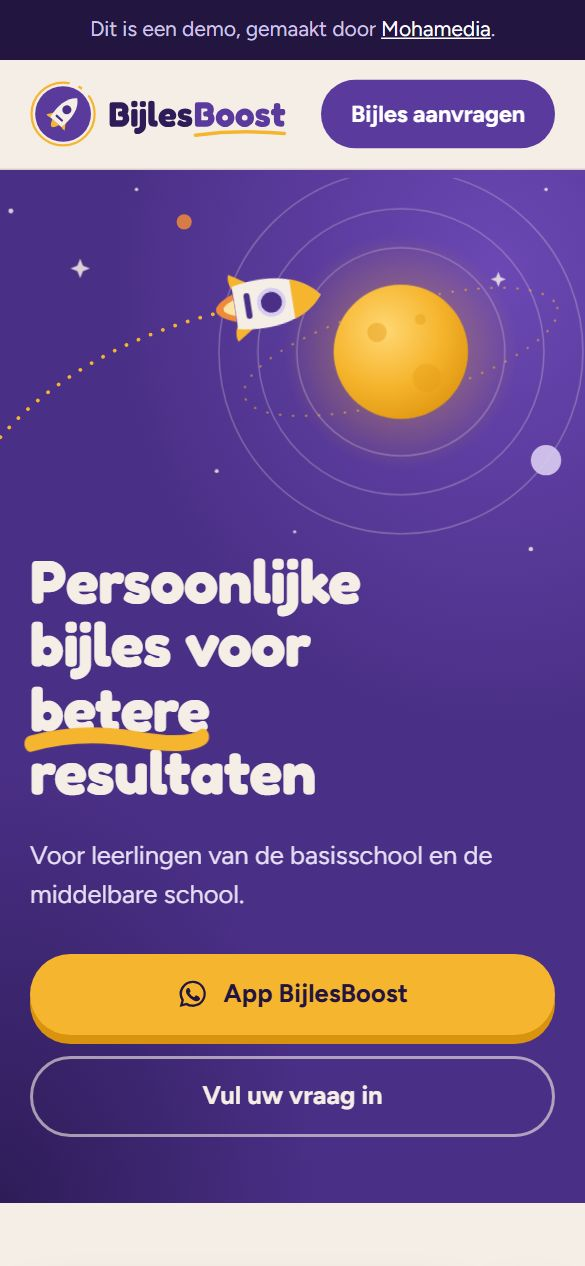
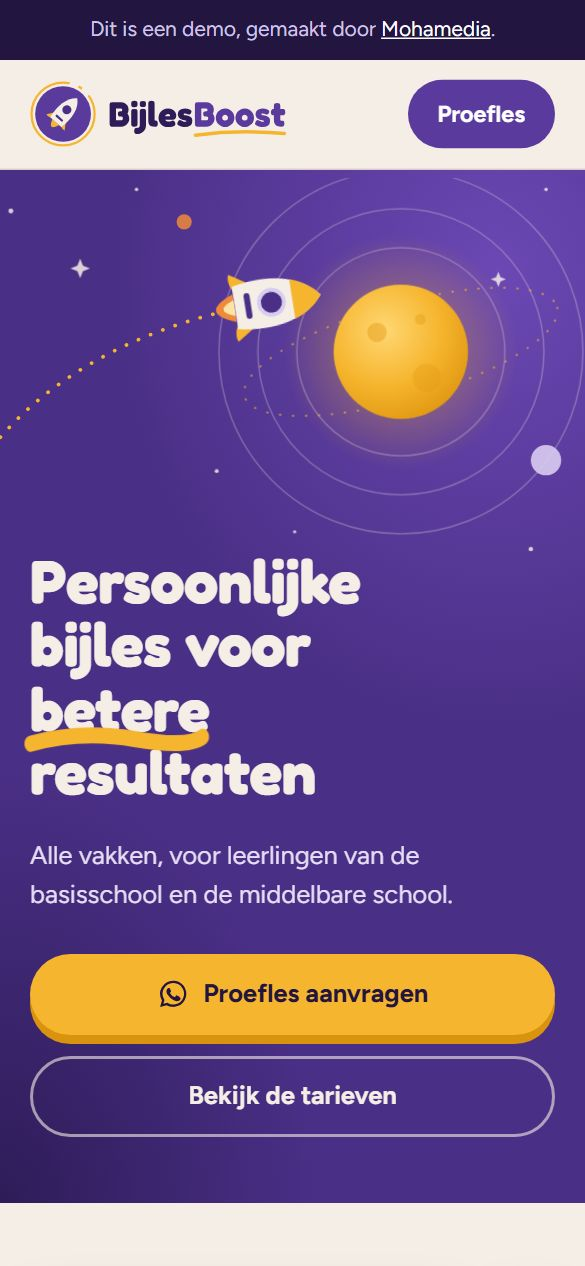
Demo bijlesboost

diff --git a/bijlesboost/index.html b/bijlesboost/index.html
@@ -18,8 +18,8 @@
 <meta charset="utf-8">
 <meta name="viewport" content="width=device-width, initial-scale=1">
 <meta name="robots" content="noindex, nofollow">
-<title>BijlesBoost – persoonlijke bijles voor basisschool en middelbare school</title>
-<meta name="description" content="BijlesBoost: persoonlijke bijles voor leerlingen van de basisschool en de middelbare school. 1-op-1 of in een kleine groep, op een eigen rustige leslocatie en op flexibele tijden. Vraag bijles aan via WhatsApp, telefoon of e-mail.">
+<title>BijlesBoost – persoonlijke bijles in Rotterdam, basisschool en middelbare school</title>
+<meta name="description" content="BijlesBoost: persoonlijke bijles voor leerlingen van de basisschool en de middelbare school. Alle vakken, 1-op-1 of in een kleine groep, op een eigen rustige leslocatie aan de Putselaan 178 in Rotterdam. Vraag een proefles aan via WhatsApp of e-mail.">
 <meta name="theme-color" content="#4A2F86">
 <link rel="icon" href="favicon.svg" type="image/svg+xml">
 <link rel="preload" href="fonts/fredoka.woff2" as="font" type="font/woff2" crossorigin>
@@ -34,6 +34,7 @@
 }
 *{box-sizing:border-box}
 [hidden]{display:none!important}
+@media (max-width:420px){.kop .xl{display:none}}
 html{scroll-behavior:smooth;-webkit-text-size-adjust:100%}
 body{margin:0;font:400 17px/1.6 var(--tekst);color:var(--inkt);background:var(--creme);overflow-x:hidden;-webkit-font-smoothing:antialiased}
 img,svg{max-width:100%}
@@ -141,13 +142,20 @@ body.pitch .demo .pitchknop{display:inline-flex;margin-left:10px;min-height:44px
 /* AANBOD */
 .aanbod{background:var(--lila);overflow:hidden}
 .aanbod::before{content:"";position:absolute;left:-180px;top:-180px;width:420px;height:420px;border-radius:50%;background:repeating-radial-gradient(circle,transparent 0 22px,rgba(91,58,158,.09) 22px 24px);pointer-events:none}
-.badges{display:grid;grid-template-columns:repeat(3,1fr);gap:10px;position:relative;align-content:start}
+.badges{display:grid;grid-template-columns:repeat(2,1fr);gap:10px;position:relative;align-content:start}
 .badge{background:var(--wit);border-radius:28px;padding:22px 16px 20px;text-align:center;display:flex;flex-direction:column;align-items:center;gap:12px;box-shadow:0 1px 0 rgba(46,28,88,.06),0 14px 30px -18px rgba(46,28,88,.35)}
 .badge .em{width:min(108px,100%);aspect-ratio:1;height:auto}
 .badge h3{font-size:clamp(14.5px,3.9vw,21px);line-height:1.2;overflow-wrap:anywhere}
 .badge{padding:18px 8px 16px}
 .prijsregel{margin:22px 0 0;font:600 clamp(19px,3.6vw,22px)/1.3 var(--kop);color:var(--paars-dd)}
 
+/* REACTIES (verborgen tot er echte teksten zijn) */
+.reacties{background:var(--wit)}
+.reactielijst{display:grid;gap:14px}
+.reactie{margin:0;background:var(--creme);border-radius:var(--r);padding:22px 20px}
+.reactie blockquote{margin:0 0 10px;font:500 18px/1.45 var(--kop);color:var(--paars-dd)}
+.reactie figcaption{font-size:14.5px;color:var(--grijs)}
+@media (min-width:900px){.reactielijst{grid-template-columns:repeat(3,1fr)}}
 /* WELKOM */
 .welkom{background:var(--paars-dd);color:var(--creme);overflow:hidden}
 .welkom .wrap{display:grid;gap:30px;align-items:center}
@@ -168,6 +176,7 @@ body.pitch .demo .pitchknop{display:inline-flex;margin-left:10px;min-height:44px
 .prijs h3{font-size:clamp(26px,6vw,34px);margin:12px 0 4px}
 .prijs .bedrag{font:700 clamp(64px,16vw,96px)/1 var(--kop);letter-spacing:-.02em;margin:10px 0 12px;display:flex;align-items:flex-start;gap:4px}
 .prijs .bedrag small{font-size:.42em;margin-top:.16em}
+.prijs .bedrag .eh{font:600 clamp(17px,4vw,20px)/1 var(--tekst);align-self:flex-end;margin:0 0 .5em 8px;opacity:.85;letter-spacing:0}
 .prijs p{margin:0;font-size:16.5px;opacity:.92;max-width:34ch}
 .prijsnoot{margin-top:24px;display:flex;flex-wrap:wrap;align-items:center;gap:14px 20px;background:var(--wit);border:1px dashed var(--lavendel);border-radius:var(--r);padding:20px 22px}
 .prijsnoot p{margin:0;font:600 clamp(19px,3.6vw,22px)/1.3 var(--kop);color:var(--paars-dd);flex:1 1 220px}
@@ -238,6 +247,7 @@ textarea.veld{min-height:92px;resize:vertical}
 .k-wa .rond{background:#25D366;color:#fff}
 .k-bel .rond{background:var(--geel);color:var(--nacht)}
 .k-mail .rond{background:var(--paars);color:#fff}
+.k-plek .rond{background:var(--geel);color:var(--nacht)}
 .locatie{margin-top:18px;display:flex;gap:14px;align-items:flex-start;background:transparent;border:1.5px dashed var(--lavendel);border-radius:24px;padding:18px}
 .locatie svg{flex:none;width:44px;height:44px}
 .locatie p{margin:0;color:var(--grijs)}
@@ -291,7 +301,7 @@ footer .klein{font-size:13.5px;opacity:.8;margin:0}
 @media (min-width:560px){
   .hero .cta,.slot .cta{flex-direction:row;flex-wrap:wrap}
   .slot .cta{max-width:none;justify-content:center}
-  .badges{gap:14px}
+  .badges{gap:14px;grid-template-columns:repeat(4,1fr)}
   .prijzen{grid-template-columns:1fr 1fr}
   .kanalen{grid-template-columns:repeat(3,1fr)}
   .kanaal{flex-direction:column;align-items:flex-start;padding:22px}
@@ -305,7 +315,7 @@ footer .klein{font-size:13.5px;opacity:.8;margin:0}
   .hero .tekst{order:1}
   .scene{order:2;width:118%;margin:0 -12% 0 -6%}
   .hero h1{margin-top:0}
-  .waarom .raster{grid-template-columns:1.05fr 1fr;align-items:start;gap:28px}
+  .waarom .raster{grid-template-columns:1fr;align-items:start;gap:28px}
   .citaat{padding:40px 36px;position:sticky;top:24px}
   .welkom .wrap{grid-template-columns:1fr 1fr;gap:48px}
   .aanmeld{grid-template-columns:1.35fr 1fr;align-items:start;gap:28px}
@@ -341,7 +351,7 @@ footer .klein{font-size:13.5px;opacity:.8;margin:0}
       <a href="#waarom">Waarom BijlesBoost</a><a href="#tarieven">Tarieven</a><a href="#werkwijze">Werkwijze</a><a href="#contact">Contact</a>
     </nav>
     <div class="rechts">
-      <a class="btn paars klein" href="#afspraak">Bijles aanvragen</a>
+      <a class="btn paars klein" href="#afspraak">Proefles<span class="xl">&nbsp;aanvragen</span></a>
     </div>
   </div>
 </header>
@@ -404,10 +414,10 @@ footer .klein{font-size:13.5px;opacity:.8;margin:0}
     </svg>
     <div class="tekst">
       <h1>Persoonlijke bijles voor <span class="ond">betere<svg viewBox="0 0 100 10" preserveAspectRatio="none" aria-hidden="true"><path pathLength="1" d="M2 7 Q30 1 60 5 T98 4"/></svg></span> resultaten</h1>
-      <p class="sub">Voor leerlingen van de basisschool en de middelbare school.</p>
+      <p class="sub">Alle vakken, voor leerlingen van de basisschool en de middelbare school.</p>
       <div class="cta">
-        <a class="btn geel" href="https://wa.me/31618645277?text=Hallo%20BijlesBoost%2C%20ik%20wil%20graag%20bijles%20voor%20mijn%20kind.%20Kunnen%20we%20iets%20afspreken%3F"><svg viewBox="0 0 24 24" aria-hidden="true"><path fill="currentColor" d="M12 2a10 10 0 0 0-8.6 15.1L2 22l5-1.3A10 10 0 1 0 12 2Zm0 18.2a8.2 8.2 0 0 1-4.2-1.2l-.3-.2-3 .8.8-2.9-.2-.3A8.2 8.2 0 1 1 12 20.2Zm4.5-6.1c-.2-.1-1.5-.7-1.7-.8-.2-.1-.4-.1-.6.1l-.8 1c-.1.2-.3.2-.5.1a6.7 6.7 0 0 1-3.3-2.9c-.3-.4.2-.4.7-1.3.1-.2 0-.3 0-.4l-.8-1.8c-.2-.5-.4-.4-.6-.4h-.5a1 1 0 0 0-.7.3 3 3 0 0 0-.9 2.2 5.2 5.2 0 0 0 1.1 2.7 11.8 11.8 0 0 0 4.5 4c1.7.7 2.3.8 3.2.7.5-.1 1.5-.6 1.8-1.2.2-.6.2-1.1.1-1.2l-.4-.2Z"/></svg>App BijlesBoost</a>
-        <a class="btn lijn-licht" href="#afspraak">Vul uw vraag in</a>
+        <a class="btn geel" href="https://wa.me/31618645277?text=Hallo%20BijlesBoost%2C%20ik%20wil%20graag%20een%20proefles%20aanvragen.%20Kunnen%20we%20iets%20afspreken%3F"><svg viewBox="0 0 24 24" aria-hidden="true"><path fill="currentColor" d="M12 2a10 10 0 0 0-8.6 15.1L2 22l5-1.3A10 10 0 1 0 12 2Zm0 18.2a8.2 8.2 0 0 1-4.2-1.2l-.3-.2-3 .8.8-2.9-.2-.3A8.2 8.2 0 1 1 12 20.2Zm4.5-6.1c-.2-.1-1.5-.7-1.7-.8-.2-.1-.4-.1-.6.1l-.8 1c-.1.2-.3.2-.5.1a6.7 6.7 0 0 1-3.3-2.9c-.3-.4.2-.4.7-1.3.1-.2 0-.3 0-.4l-.8-1.8c-.2-.5-.4-.4-.6-.4h-.5a1 1 0 0 0-.7.3 3 3 0 0 0-.9 2.2 5.2 5.2 0 0 0 1.1 2.7 11.8 11.8 0 0 0 4.5 4c1.7.7 2.3.8 3.2.7.5-.1 1.5-.6 1.8-1.2.2-.6.2-1.1.1-1.2l-.4-.2Z"/></svg>Proefles aanvragen</a>
+        <a class="btn lijn-licht" href="#tarieven">Bekijk de tarieven</a>
       </div>
     </div>
   </div>
@@ -436,8 +446,25 @@ footer .klein{font-size:13.5px;opacity:.8;margin:0}
           <svg class="em" viewBox="0 0 108 108" aria-hidden="true"><circle cx="54" cy="54" r="53" fill="#EEE7F8"/><circle cx="54" cy="54" r="44" fill="none" stroke="#5B3A9E" stroke-width="2" stroke-dasharray="3 6" opacity=".5"/><circle cx="54" cy="55" r="23" fill="#fff" stroke="#5B3A9E" stroke-width="4"/><path d="M54 42v13l9 6" fill="none" stroke="#2E1C58" stroke-width="4" stroke-linecap="round" stroke-linejoin="round"/><path d="M30 32a30 30 0 0 1 14-9" fill="none" stroke="#F6B52E" stroke-width="4" stroke-linecap="round"/><path d="m41 18 4 5-6 3" fill="none" stroke="#F6B52E" stroke-width="4" stroke-linecap="round" stroke-linejoin="round"/></svg>
           <h3>Flexibele tijden</h3>
         </div>
+        <div class="badge">
+          <svg class="em" viewBox="0 0 108 108" aria-hidden="true"><circle cx="54" cy="54" r="53" fill="#2E1C58"/><circle cx="54" cy="54" r="44" fill="none" stroke="#D8CCF0" stroke-width="2" stroke-dasharray="3 6" opacity=".6"/><rect x="30" y="64" width="48" height="11" rx="3" fill="#F6B52E"/><rect x="34" y="52" width="42" height="11" rx="3" fill="#D8CCF0"/><rect x="28" y="40" width="46" height="11" rx="3" fill="#F5EEE6"/><path d="M36 40v11M70 52v11M40 64v11" stroke="#2E1C58" stroke-width="2" opacity=".35"/><path d="M50 27 62 22l12 5-12 5Z" fill="#F6B52E"/><path d="M72 28v7" stroke="#F6B52E" stroke-width="2.4" stroke-linecap="round"/></svg>
+          <h3>Alle vakken</h3>
+        </div>
       </div>
     </div>
+  </div>
+</section>
+
+<!-- Reacties van ouders: vullen met echte ouderreacties van Nizar (letterlijk, voornaam, met toestemming; bron in het dossier).
+     Pas als er echte teksten zijn het attribuut hidden weghalen. Per reactie:
+     <figure class="reactie"><blockquote>"…letterlijke tekst…"</blockquote><figcaption>Voornaam, ouder van een leerling</figcaption></figure> -->
+<section class="sectie reacties" id="reacties" hidden>
+  <div class="wrap">
+    <div class="kopje">
+      <span class="label">Reacties van ouders</span>
+      <h2>Wat ouders zeggen</h2>
+    </div>
+    <div class="reactielijst"></div>
   </div>
 </section>
 
@@ -450,46 +477,54 @@ footer .klein{font-size:13.5px;opacity:.8;margin:0}
     <div class="prijzen">
       <div class="prijs een">
         <div class="soort">Persoonlijk</div>
-        <h3>1-op-1 bijles</h3>
-        <div class="bedrag"><small>€</small>25</div>
-        <p>Alleen uw kind en de docent.</p>
+        <h3>Privéles (1-op-1)</h3>
+        <div class="bedrag"><small>€</small>25<span class="eh">per uur</span></div>
+        <p>Eén leerling en de docent.</p>
       </div>
       <div class="prijs groep">
         <div class="soort">Kleinschalig</div>
         <h3>Kleine groep</h3>
-        <div class="bedrag"><small>€</small>20</div>
+        <div class="bedrag"><small>€</small>20<span class="eh">per uur</span></div>
+        <p>Samen met andere leerlingen.</p>
               </div>
     </div>
-    <p class="prijsregel">Vraag naar de mogelijkheden.</p>
+    <p class="prijsregel">Een proefles is mogelijk. Vraag naar de mogelijkheden.</p>
   </div>
 </section>
 
 <section class="sectie kiezer" id="afspraak">
   <div class="wrap">
     <div class="kopje">
-      <span class="label">Bijles aanvragen</span>
-      <h2>Vertel kort over uw kind</h2>
+      <span class="label">Proefles of bijles aanvragen</span>
+      <h2>Vertel kort over de leerling</h2>
       <p>Uw bericht staat meteen klaar in WhatsApp; u hoeft alleen nog op versturen te tikken.</p>
     </div>
     <div class="aanmeld">
       <div class="kaartje">
         <fieldset class="stap">
-          <legend><span class="nr">1</span>Op welke school zit uw kind?</legend>
+          <legend><span class="nr">1</span>Wat wilt u aanvragen?</legend>
+          <div class="chips" data-groep="soort">
+            <button type="button" class="chip" data-w="proefles" aria-pressed="true">Een proefles</button>
+            <button type="button" class="chip" data-w="bijles" aria-pressed="false">Bijles</button>
+          </div>
+        </fieldset>
+        <fieldset class="stap">
+          <legend><span class="nr">2</span>Op welke school zit de leerling?</legend>
           <div class="chips" data-groep="school">
             <button type="button" class="chip" data-w="de basisschool" aria-pressed="true">Basisschool</button>
             <button type="button" class="chip" data-w="de middelbare school" aria-pressed="false">Middelbare school</button>
           </div>
         </fieldset>
         <fieldset class="stap">
-          <legend><span class="nr">2</span>Welke vorm heeft uw voorkeur?</legend>
+          <legend><span class="nr">3</span>Welke vorm heeft uw voorkeur?</legend>
           <div class="chips" data-groep="vorm">
-            <button type="button" class="chip" data-w="1-op-1 bijles" aria-pressed="true">1-op-1</button>
-            <button type="button" class="chip" data-w="bijles in een kleine groep" aria-pressed="false">Kleine groep</button>
+            <button type="button" class="chip" data-w="privéles (1-op-1)" aria-pressed="true">Privéles (1-op-1)</button>
+            <button type="button" class="chip" data-w="les in een kleine groep" aria-pressed="false">Kleine groep</button>
             <button type="button" class="chip" data-w="" aria-pressed="false">Weet ik nog niet</button>
           </div>
         </fieldset>
         <div class="stap">
-          <label class="lb" for="vraag"><span class="nr">3</span>Waar zoekt uw kind hulp bij?</label>
+          <label class="lb" for="vraag"><span class="nr">4</span>Waar zoekt de leerling hulp bij?</label>
           <div class="chips" data-groep="snel" style="margin-bottom:10px">
             <button type="button" class="chip" data-w="leren" aria-pressed="false">Leren</button>
             <button type="button" class="chip" data-w="plannen" aria-pressed="false">Plannen</button>
@@ -498,7 +533,7 @@ footer .klein{font-size:13.5px;opacity:.8;margin:0}
           <textarea class="veld" id="vraag" maxlength="300" placeholder="Bijvoorbeeld welk vak, of wat er lastig gaat"></textarea>
         </div>
         <div class="stap" style="margin-bottom:0">
-          <label class="lb" for="naam"><span class="nr">4</span>Uw naam</label>
+          <label class="lb" for="naam"><span class="nr">5</span>Uw naam</label>
           <input class="veld" id="naam" type="text" maxlength="60" autocomplete="name" placeholder="Naam van de ouder of verzorger">
           <p class="hint">Wat u invult, blijft op uw eigen toestel. Pas als u op versturen tikt, gaat het bericht naar BijlesBoost.</p>
         </div>
@@ -507,7 +542,7 @@ footer .klein{font-size:13.5px;opacity:.8;margin:0}
         <h3><img src="favicon.svg" width="34" height="34" alt="">Uw bericht aan BijlesBoost</h3>
         <div class="bubbel" id="bubbel"></div>
         <div class="knoppen">
-          <a class="btn geel" id="waKnop" href="https://wa.me/31618645277?text=Hallo%20BijlesBoost%2C%20ik%20wil%20graag%20bijles%20voor%20mijn%20kind.%20Kunnen%20we%20iets%20afspreken%3F"><svg viewBox="0 0 24 24" aria-hidden="true"><path fill="currentColor" d="M12 2a10 10 0 0 0-8.6 15.1L2 22l5-1.3A10 10 0 1 0 12 2Zm0 18.2a8.2 8.2 0 0 1-4.2-1.2l-.3-.2-3 .8.8-2.9-.2-.3A8.2 8.2 0 1 1 12 20.2Zm4.5-6.1c-.2-.1-1.5-.7-1.7-.8-.2-.1-.4-.1-.6.1l-.8 1c-.1.2-.3.2-.5.1a6.7 6.7 0 0 1-3.3-2.9c-.3-.4.2-.4.7-1.3.1-.2 0-.3 0-.4l-.8-1.8c-.2-.5-.4-.4-.6-.4h-.5a1 1 0 0 0-.7.3 3 3 0 0 0-.9 2.2 5.2 5.2 0 0 0 1.1 2.7 11.8 11.8 0 0 0 4.5 4c1.7.7 2.3.8 3.2.7.5-.1 1.5-.6 1.8-1.2.2-.6.2-1.1.1-1.2l-.4-.2Z"/></svg>Verstuur via WhatsApp</a>
+          <a class="btn geel" id="waKnop" href="https://wa.me/31618645277?text=Hallo%20BijlesBoost%2C%20ik%20wil%20graag%20een%20proefles%20aanvragen.%20Kunnen%20we%20iets%20afspreken%3F"><svg viewBox="0 0 24 24" aria-hidden="true"><path fill="currentColor" d="M12 2a10 10 0 0 0-8.6 15.1L2 22l5-1.3A10 10 0 1 0 12 2Zm0 18.2a8.2 8.2 0 0 1-4.2-1.2l-.3-.2-3 .8.8-2.9-.2-.3A8.2 8.2 0 1 1 12 20.2Zm4.5-6.1c-.2-.1-1.5-.7-1.7-.8-.2-.1-.4-.1-.6.1l-.8 1c-.1.2-.3.2-.5.1a6.7 6.7 0 0 1-3.3-2.9c-.3-.4.2-.4.7-1.3.1-.2 0-.3 0-.4l-.8-1.8c-.2-.5-.4-.4-.6-.4h-.5a1 1 0 0 0-.7.3 3 3 0 0 0-.9 2.2 5.2 5.2 0 0 0 1.1 2.7 11.8 11.8 0 0 0 4.5 4c1.7.7 2.3.8 3.2.7.5-.1 1.5-.6 1.8-1.2.2-.6.2-1.1.1-1.2l-.4-.2Z"/></svg>Verstuur via WhatsApp</a>
           <a class="btn lijn-licht" id="mailKnop" href="mailto:bijlesboost@outlook.com">Liever mailen</a>
         </div>
               </div>
@@ -522,9 +557,9 @@ footer .klein{font-size:13.5px;opacity:.8;margin:0}
       <h2>Zo gaat het</h2>
     </div>
     <ol class="stappen">
-      <li><div class="planeetje">1</div><div><h3>Contact</h3><p>U stuurt een bericht, belt of mailt.</p></div></li>
-      <li><div class="planeetje">2</div><div><h3>Afstemmen</h3><p>Samen spreekt u de vorm en de tijden af.</p></div></li>
-      <li><div class="planeetje">3</div><div><h3>Aan de slag</h3><p>Uw kind krijgt persoonlijke begeleiding.</p></div></li>
+      <li><div class="planeetje">1</div><div><h3>Aanvragen</h3><p>U stuurt een WhatsApp-bericht of een mail.</p></div></li>
+      <li><div class="planeetje">2</div><div><h3>Proefles</h3><p>De leerling volgt een proefles.</p></div></li>
+      <li><div class="planeetje">3</div><div><h3>Aan de slag</h3><p>Samen spreekt u de vorm en de tijden af.</p></div></li>
     </ol>
   </div>
 </section>
@@ -533,11 +568,15 @@ footer .klein{font-size:13.5px;opacity:.8;margin:0}
   <div class="wrap">
     <div class="kopje">
       <span class="label">Vragen</span>
-      <h2>Goed om te weten</h2>
+      <h2>Meestgestelde vragen</h2>
     </div>
     <div class="faq">
-      <details><summary>Waar is de bijles?</summary><p>Op onze eigen, rustige leslocatie. Vraag ons gerust waar die is.</p></details>
-      <details><summary>Op welke tijden kan het?</summary><p>De tijden zijn flexibel. Laat ons weten wat voor u werkt.</p></details>
+      <details><summary>Voor welke vakken kan een leerling terecht?</summary><p>Voor alle vakken, op de basisschool en op de middelbare school.</p></details>
+      <details><summary>Kan de leerling eerst een proefles volgen?</summary><p>Ja. Kies in het formulier "Een proefles" of stuur ons een WhatsApp-bericht.</p></details>
+      <details><summary>Wat is het verschil tussen privéles en een kleine groep?</summary><p>Bij privéles is de docent er voor één leerling. In een kleine groep krijgt de leerling samen met andere leerlingen les. De tarieven per uur staan hierboven.</p></details>
+      <details><summary>Waar zijn de lessen?</summary><p>Op onze eigen, rustige leslocatie aan de Putselaan 178 in Rotterdam.</p></details>
+      <details><summary>Op welke dagen en tijden kan het?</summary><p>De tijden zijn flexibel. U spreekt ze samen met ons af.</p></details>
+      <details><summary>Hoe vraag ik bijles aan?</summary><p>Via WhatsApp op 06 18 64 52 77 of per mail naar bijlesboost@outlook.com.</p></details>
     </div>
   </div>
 </section>
@@ -547,11 +586,12 @@ footer .klein{font-size:13.5px;opacity:.8;margin:0}
     <div class="kopje">
       <span class="label">Contact</span>
       <h2>Neem contact op</h2>
+      <p>Vraag een proefles of bijles aan via WhatsApp of mail.</p>
     </div>
     <div class="kanalen">
-      <a class="kanaal k-wa" href="https://wa.me/31618645277?text=Hallo%20BijlesBoost%2C%20ik%20wil%20graag%20bijles%20voor%20mijn%20kind.%20Kunnen%20we%20iets%20afspreken%3F"><span class="rond"><svg viewBox="0 0 24 24" aria-hidden="true"><path fill="currentColor" d="M12 2a10 10 0 0 0-8.6 15.1L2 22l5-1.3A10 10 0 1 0 12 2Zm0 18.2a8.2 8.2 0 0 1-4.2-1.2l-.3-.2-3 .8.8-2.9-.2-.3A8.2 8.2 0 1 1 12 20.2Zm4.5-6.1c-.2-.1-1.5-.7-1.7-.8-.2-.1-.4-.1-.6.1l-.8 1c-.1.2-.3.2-.5.1a6.7 6.7 0 0 1-3.3-2.9c-.3-.4.2-.4.7-1.3.1-.2 0-.3 0-.4l-.8-1.8c-.2-.5-.4-.4-.6-.4h-.5a1 1 0 0 0-.7.3 3 3 0 0 0-.9 2.2 5.2 5.2 0 0 0 1.1 2.7 11.8 11.8 0 0 0 4.5 4c1.7.7 2.3.8 3.2.7.5-.1 1.5-.6 1.8-1.2.2-.6.2-1.1.1-1.2l-.4-.2Z"/></svg></span><span><b>WhatsApp</b><span>06 18 64 52 77</span></span><svg class="pijl" viewBox="0 0 24 24" aria-hidden="true"><path d="M5 12h14m-6-6 6 6-6 6" fill="none" stroke="currentColor" stroke-width="2.4" stroke-linecap="round" stroke-linejoin="round"/></svg></a>
-      <a class="kanaal k-bel" href="tel:+31618645277"><span class="rond"><svg viewBox="0 0 24 24" aria-hidden="true"><path fill="currentColor" d="M6.6 10.8a15.2 15.2 0 0 0 6.6 6.6l2.2-2.2a1 1 0 0 1 1-.25 11.4 11.4 0 0 0 3.6.57 1 1 0 0 1 1 1V20a1 1 0 0 1-1 1A17 17 0 0 1 3 4a1 1 0 0 1 1-1h3.5a1 1 0 0 1 1 1c0 1.25.2 2.45.57 3.57a1 1 0 0 1-.25 1Z"/></svg></span><span><b>Bellen</b><span class="nw">06 18 64 52 77</span></span><svg class="pijl" viewBox="0 0 24 24" aria-hidden="true"><path d="M5 12h14m-6-6 6 6-6 6" fill="none" stroke="currentColor" stroke-width="2.4" stroke-linecap="round" stroke-linejoin="round"/></svg></a>
+      <a class="kanaal k-wa" href="https://wa.me/31618645277?text=Hallo%20BijlesBoost%2C%20ik%20wil%20graag%20een%20proefles%20aanvragen.%20Kunnen%20we%20iets%20afspreken%3F"><span class="rond"><svg viewBox="0 0 24 24" aria-hidden="true"><path fill="currentColor" d="M12 2a10 10 0 0 0-8.6 15.1L2 22l5-1.3A10 10 0 1 0 12 2Zm0 18.2a8.2 8.2 0 0 1-4.2-1.2l-.3-.2-3 .8.8-2.9-.2-.3A8.2 8.2 0 1 1 12 20.2Zm4.5-6.1c-.2-.1-1.5-.7-1.7-.8-.2-.1-.4-.1-.6.1l-.8 1c-.1.2-.3.2-.5.1a6.7 6.7 0 0 1-3.3-2.9c-.3-.4.2-.4.7-1.3.1-.2 0-.3 0-.4l-.8-1.8c-.2-.5-.4-.4-.6-.4h-.5a1 1 0 0 0-.7.3 3 3 0 0 0-.9 2.2 5.2 5.2 0 0 0 1.1 2.7 11.8 11.8 0 0 0 4.5 4c1.7.7 2.3.8 3.2.7.5-.1 1.5-.6 1.8-1.2.2-.6.2-1.1.1-1.2l-.4-.2Z"/></svg></span><span><b>WhatsApp</b><span>06 18 64 52 77</span></span><svg class="pijl" viewBox="0 0 24 24" aria-hidden="true"><path d="M5 12h14m-6-6 6 6-6 6" fill="none" stroke="currentColor" stroke-width="2.4" stroke-linecap="round" stroke-linejoin="round"/></svg></a>
       <a class="kanaal k-mail" href="mailto:bijlesboost@outlook.com?subject=Vraag%20over%20bijles"><span class="rond"><svg viewBox="0 0 24 24" aria-hidden="true"><path d="M3 6h18v12H3z" fill="none" stroke="currentColor" stroke-width="2"/><path d="m3.5 6.5 8.5 7 8.5-7" fill="none" stroke="currentColor" stroke-width="2" stroke-linejoin="round"/></svg></span><span><b>Mailen</b><span>bijlesboost@outlook.com</span></span><svg class="pijl" viewBox="0 0 24 24" aria-hidden="true"><path d="M5 12h14m-6-6 6 6-6 6" fill="none" stroke="currentColor" stroke-width="2.4" stroke-linecap="round" stroke-linejoin="round"/></svg></a>
+      <a class="kanaal k-plek" href="https://www.google.com/maps/search/?api=1&amp;query=Putselaan%20178%20Rotterdam" target="_blank" rel="noopener"><span class="rond"><svg viewBox="0 0 24 24" aria-hidden="true"><path fill="currentColor" d="M12 2a7 7 0 0 0-7 7c0 5.2 7 13 7 13s7-7.8 7-13a7 7 0 0 0-7-7zm0 9.5A2.5 2.5 0 1 1 12 6.5a2.5 2.5 0 0 1 0 5z"/></svg></span><span><b>Leslocatie</b><span>Putselaan 178, Rotterdam</span></span><svg class="pijl" viewBox="0 0 24 24" aria-hidden="true"><path d="M5 12h14m-6-6 6 6-6 6" fill="none" stroke="currentColor" stroke-width="2.4" stroke-linecap="round" stroke-linejoin="round"/></svg></a>
     </div>
   </div>
 </section>
@@ -572,8 +612,8 @@ footer .klein{font-size:13.5px;opacity:.8;margin:0}
 </footer>
 
 <div class="zweef" id="zweef" aria-hidden="true">
-  <a class="btn geel" href="#afspraak" tabindex="-1">Bijles aanvragen</a>
-  <a class="btn rond" href="https://wa.me/31618645277?text=Hallo%20BijlesBoost%2C%20ik%20wil%20graag%20bijles%20voor%20mijn%20kind.%20Kunnen%20we%20iets%20afspreken%3F" tabindex="-1" aria-label="WhatsApp BijlesBoost"><svg viewBox="0 0 24 24" aria-hidden="true"><path fill="currentColor" d="M12 2a10 10 0 0 0-8.6 15.1L2 22l5-1.3A10 10 0 1 0 12 2Zm0 18.2a8.2 8.2 0 0 1-4.2-1.2l-.3-.2-3 .8.8-2.9-.2-.3A8.2 8.2 0 1 1 12 20.2Zm4.5-6.1c-.2-.1-1.5-.7-1.7-.8-.2-.1-.4-.1-.6.1l-.8 1c-.1.2-.3.2-.5.1a6.7 6.7 0 0 1-3.3-2.9c-.3-.4.2-.4.7-1.3.1-.2 0-.3 0-.4l-.8-1.8c-.2-.5-.4-.4-.6-.4h-.5a1 1 0 0 0-.7.3 3 3 0 0 0-.9 2.2 5.2 5.2 0 0 0 1.1 2.7 11.8 11.8 0 0 0 4.5 4c1.7.7 2.3.8 3.2.7.5-.1 1.5-.6 1.8-1.2.2-.6.2-1.1.1-1.2l-.4-.2Z"/></svg></a>
+  <a class="btn geel" href="#afspraak" tabindex="-1">Proefles aanvragen</a>
+  <a class="btn rond" href="https://wa.me/31618645277?text=Hallo%20BijlesBoost%2C%20ik%20wil%20graag%20een%20proefles%20aanvragen.%20Kunnen%20we%20iets%20afspreken%3F" tabindex="-1" aria-label="WhatsApp BijlesBoost"><svg viewBox="0 0 24 24" aria-hidden="true"><path fill="currentColor" d="M12 2a10 10 0 0 0-8.6 15.1L2 22l5-1.3A10 10 0 1 0 12 2Zm0 18.2a8.2 8.2 0 0 1-4.2-1.2l-.3-.2-3 .8.8-2.9-.2-.3A8.2 8.2 0 1 1 12 20.2Zm4.5-6.1c-.2-.1-1.5-.7-1.7-.8-.2-.1-.4-.1-.6.1l-.8 1c-.1.2-.3.2-.5.1a6.7 6.7 0 0 1-3.3-2.9c-.3-.4.2-.4.7-1.3.1-.2 0-.3 0-.4l-.8-1.8c-.2-.5-.4-.4-.6-.4h-.5a1 1 0 0 0-.7.3 3 3 0 0 0-.9 2.2 5.2 5.2 0 0 0 1.1 2.7 11.8 11.8 0 0 0 4.5 4c1.7.7 2.3.8 3.2.7.5-.1 1.5-.6 1.8-1.2.2-.6.2-1.1.1-1.2l-.4-.2Z"/></svg></a>
 </div>
 
 <div class="pitchpaneel" id="pitch" hidden>
@@ -586,23 +626,23 @@ footer .klein{font-size:13.5px;opacity:.8;margin:0}
     </div>
     <h3>Wat er beter wordt</h3>
     <ul>
-      <li>Een ouder vraagt bijles aan in één tik: school, vorm en hulpvraag staan al in het WhatsApp-bericht.</li>
-      <li>De tarieven staan op één plek: 1-op-1 € 25, kleine groep € 20.</li>
+      <li>Een ouder vraagt een proefles of bijles aan in één tik: school, vorm en hulpvraag staan al in het WhatsApp-bericht.</li>
+      <li>De tarieven staan op één plek: privéles € 25 per uur, kleine groep € 20 per uur.</li>
       <li>Geen stockfoto's meer: eigen tekeningen in de kleuren van je flyer, met je raket als merkteken.</li>
       <li>Tip: zet straks de link of een QR-code op je flyer, dan komt iedereen die hem krijgt meteen hier.</li>
     </ul>
     <h3>Rekenvoorbeeld om samen in te vullen (geen belofte)</h3>
     <div class="reken">
-      <label for="rk">Extra keer per week het tarief: <span id="rkU">2</span></label>
+      <label for="rk">Extra lesuren per week: <span id="rkU">2</span></label>
       <input type="range" id="rk" min="1" max="20" value="2">
-      <label>Tarief</label>
+      <label>Tarief per uur</label>
       <div class="chips" id="rt">
-        <button type="button" class="chip" data-w="25" aria-pressed="true">1-op-1 € 25</button>
-        <button type="button" class="chip" data-w="20" aria-pressed="false">Kleine groep € 20</button>
+        <button type="button" class="chip" data-w="25" aria-pressed="true">Privéles € 25 per uur</button>
+        <button type="button" class="chip" data-w="20" aria-pressed="false">Kleine groep € 20 per uur</button>
       </div>
       <label for="rw">Weken per jaar: <span id="rwU">40</span></label>
       <input type="range" id="rw" min="10" max="52" value="40">
-      <div class="uit"><p style="margin:0">Per jaar: <b id="rjU">€ 2.000</b> extra omzet</p><p style="margin:6px 0 0;font-size:14px;color:var(--grijs)">Voorbeeld: aantal keer × het tarief × weken, geen belofte.</p></div>
+      <div class="uit"><p style="margin:0">Per jaar: <b id="rjU">€ 2.000</b> extra omzet</p><p style="margin:6px 0 0;font-size:14px;color:var(--grijs)">Voorbeeld: uren per week × tarief per uur × weken, geen belofte.</p></div>
     </div>
   </div>
 </div>
@@ -623,14 +663,14 @@ footer .klein{font-size:13.5px;opacity:.8;margin:0}
     var n=naam.value.trim(),s=keuze('school'),v=keuze('vorm'),q=vraag.value.trim(),sn=snel();
     var t='Hallo BijlesBoost,\n\n';
     t+=n?'Ik ben '+n+'. ':'';
-    t+='Ik wil graag bijles voor mijn kind. Mijn kind zit op '+s+'.';
-    t+=v?' We denken aan '+v+'.':' We weten nog niet of 1-op-1 of een kleine groep het beste past.';
-    if(sn.length)t+='\nMijn kind zoekt hulp bij '+lijst(sn)+'.';
+    t+=(keuze('soort')==='bijles'?'Ik wil graag bijles aanvragen':'Ik wil graag een proefles aanvragen')+' voor een leerling van '+s+'.';
+    t+=v?' We denken aan '+v+'.':' We weten nog niet of privéles of een kleine groep het beste past.';
+    if(sn.length)t+='\nDe leerling zoekt hulp bij '+lijst(sn)+'.';
     if(q)t+='\n'+q;
     t+='\n\nKunnen we iets afspreken?';
     bubbel.textContent=t;
     waK.href=wa(t);
-    mailK.href='mailto:bijlesboost@outlook.com?subject='+encodeURIComponent('Bijles aanvragen bij BijlesBoost')+'&body='+encodeURIComponent(t);
+    mailK.href='mailto:bijlesboost@outlook.com?subject='+encodeURIComponent((keuze('soort')==='bijles'?'Bijles':'Proefles')+' aanvragen bij BijlesBoost')+'&body='+encodeURIComponent(t);
   }
   document.querySelectorAll('.kaartje .chips').forEach(function(g){
     g.addEventListener('click',function(e){
